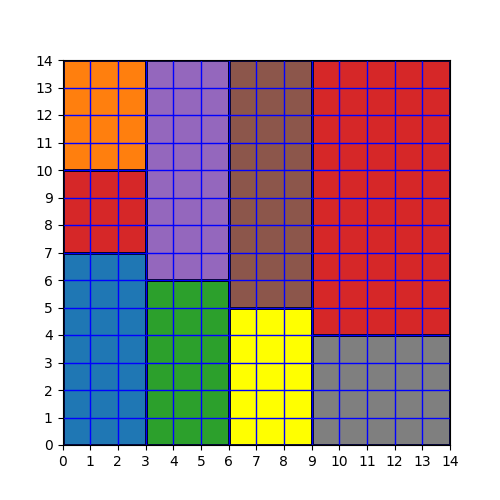
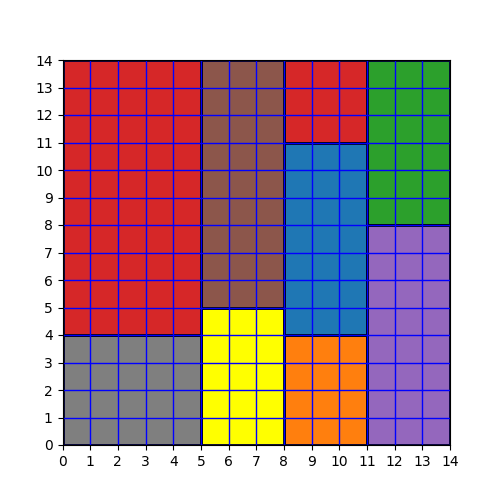
[Update] Improved SAT model and changed variables names.

diff --git a/vlsi-design-SAT.py b/vlsi-design-SAT.py
@@ -3,11 +3,7 @@ from utils import import_instances, plot_solution, output_solution
 import time
 from z3 import *
 
-## Data Input
-
 instances = import_instances('input/instances/')
-
-# Functions
 
 def at_least_one(bool_vars):
     return Or(bool_vars)
@@ -21,25 +17,57 @@ def exactly_one(solver, bool_vars):
 
 def get_variables(instance_number):
     # Get the number of blocks
-    number_of_blocks = int(instances[instance_number][1])
+    number_of_circuits = int(instances[instance_number][1])
     
     # Get block lengths and heights
-    blocks_width = []
-    blocks_height = []
+    circuits_width = []
+    circuits_height = []
 
     for value in instances[instance_number][2:]:
         width, height = value.split(' ')
-        blocks_width.append(int(width))
-        blocks_height.append(int(height))  
+        circuits_width.append(int(width))
+        circuits_height.append(int(height))  
 
     width = int(instances[instance_number][0])
-    return number_of_blocks, blocks_width, blocks_height, width
+    return number_of_circuits, circuits_width, circuits_height, width
 
-## Z3 SAT Code
-
+# Z3 SAT Code
 def vlsi(s, height):
+    grid = [[[Bool(f"v_{i}_{j}_{k}") for k in range(number_of_circuits)] for j in range(width)] for i in range(height)]
+
+    # A cell has only one value (only one circuit can be on each place)
+    for i in range(height):
+        for j in range(width):
+            s.add(at_most_one(grid[i][j]))
+
+    # Every piece of a given circuit must be placed together
+    for n in range(number_of_circuits):
+        circuit_place = []
+        for i in range(height - circuits_height[n] + 1):
+            for j in range(width - circuits_width[n] + 1):
+                circuit_place.append(And([grid[ii][jj][n] for ii in range(i, i + circuits_height[n]) for jj in range(j, j + circuits_width[n])]))
+        s.add(at_least_one(circuit_place))
+    
+    sol = []
+    if s.check() == sat:
+        m = s.model()
+        for i in range(width):
+            sol.append([])
+            for j in range(height):
+                for k in range(number_of_circuits):
+                    if m.evaluate(grid[i][j][k]):
+                        sol[i].append(k)
+    elif s.reason_unknown() == "timeout":
+        print("Solver timeout")
+    else:
+        print("Failed to solve")
+    return sol
+
+
+
+def vlsiOLD(s, height):
     # Variables
-    p = [[[Bool(f"x_{i}_{j}_{n}") for n in range((2* number_of_blocks) + 1)] for j in range(height)] for i in range(width)]
+    p = [[[Bool(f"x_{i}_{j}_{n}") for n in range((2*number_of_circuits) + 1)] for j in range(height)] for i in range(width)]
 
     # A cell has only one value
     for i in range(width):
@@ -47,17 +75,25 @@ def vlsi(s, height):
             exactly_one(s, p[i][j])
 
     # A circuit appears once in a position inside the plane
-    for n in range(number_of_blocks):
-        exactly_one(s, [p[i][j][n] for i in range(width - blocks_width[n] + 1) for j in range(height - blocks_height[n] + 1)])
+    for n in range(number_of_circuits):
+        exactly_one(s, [p[i][j][n] for i in range(width - circuits_width[n] + 1) for j in range(height - circuits_height[n] + 1)])
+        exactly_one(s, [p[i][j][n] for i in range(width) for j in range(height)])
 
-    # The circuits can't overlap
-    for n in range(number_of_blocks):
-        for i in range(width - blocks_width[n]+1):
-            for j in range(height - blocks_height[n]+1):
-                for k in range(i, i + blocks_width[n]):
-                    for u in range(j, j + blocks_height[n]):
+    for n in range(number_of_circuits):
+        for i in range(width - circuits_width[n]+1):
+            for j in range(height - circuits_height[n]+1):
+                for k in range(i, i + circuits_width[n]):
+                    for u in range(j, j + circuits_height[n]):
                         if(k != i or u != j):
-                            s.add(Implies(p[i][j][n], p[k][u][n + number_of_blocks]))
+                            s.add(Implies(p[i][j][n], p[k][u][n + number_of_circuits]))
+
+
+    #for i in range(width):
+    #    s.add(sum(
+    #        [If(And(v[j][W] <= i, v[j][W] + circuits_width[j] > i),
+    #            circuits_height[j],
+    #            0) for j in range(number_of_circuits)]) 
+    #                        <= height)
 
     sol = []
     if s.check() == sat:
@@ -65,7 +101,7 @@ def vlsi(s, height):
         for i in range(width):
             sol.append([])
             for j in range(height):
-                for k in range(2*(number_of_blocks) + 1):
+                for k in range((2*number_of_circuits) + 1):
                     if m.evaluate(p[i][j][k]):
                         sol[i].append(k)
         #print(sol)
@@ -78,10 +114,9 @@ def vlsi(s, height):
 start = time.time()
 middle = start
 for instance_number in range(len(instances)):
-    print("Solved instance %i in %f seconds (%f sec)" %((instance_number- 1), (time.time() - start), (time.time() - middle)))	
-    print("Solving instance: ", instance_number)
-    number_of_blocks, blocks_width, blocks_height, width = get_variables(instance_number)
-    starting_height = int(sum([blocks_width[i] * blocks_height[i] for i in range(number_of_blocks)]) / width)
+    print("Solving instance: ", (instance_number + 1))
+    number_of_circuits, circuits_width, circuits_height, width = get_variables(instance_number)
+    starting_height = int(math.ceil(sum([circuits_width[i] * circuits_height[i] for i in range(number_of_circuits)]) / width))
     height_i = starting_height
     s = Solver()
 
@@ -92,14 +127,17 @@ for instance_number in range(len(instances)):
     sol = vlsi(s, height_i)
         
     if (sol) :
-        start_x = []
-        start_y = []
-        for n in range(number_of_blocks):
-            for i in range(len(sol)):
-                for j in range(len(sol[0])):
-                    if sol[i][j] == n:
-                        start_x.append(i)
-                        start_y.append(j)
-        circuits = [[blocks_width[i], blocks_height[i], start_x[i], start_y[i]] for i in range(number_of_blocks)]
-        plot_solution(width, height_i, circuits, f'output/SAt/images/out-{instance_number+1}.png')
+        print("Solved instance %i in %f seconds (%f sec)" %((instance_number  +1), (time.time() - start), (time.time() - middle)))	
+        start_x = [False]*(number_of_circuits)
+        start_y = [False]*(number_of_circuits)
+        flag = [False]*(number_of_circuits)
+        for i in range(len(sol)):
+            for j in range(len(sol[0])):
+                for n in range(number_of_circuits):
+                    if sol[i][j] == n and not(flag[n]):
+                        flag[n] = True
+                        start_x[n] = j
+                        start_y[n] = i
+        circuits = [[circuits_width[i], circuits_height[i], start_x[i], start_y[i]] for i in range(number_of_circuits)]
+        plot_solution(width, height_i, circuits, f'output/SAT/images/out-{instance_number+1}.png')
         output_solution(instances[instance_number], height_i, start_x, start_y, f'output/SAT/solutions/out-{instance_number + 1}.txt')
